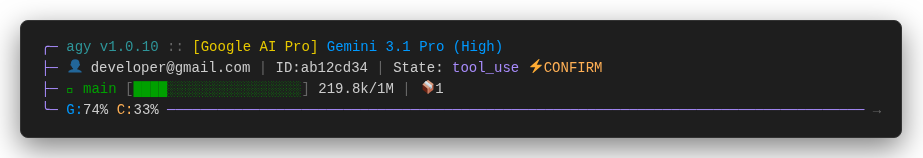
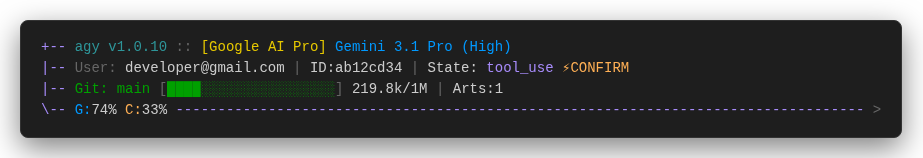
wip: ascii dashboard theme, preview-all script, regenerated screenshots

diff --git a/themes/dashboard.js b/themes/dashboard.js
@@ -20,7 +20,7 @@ export default {
       const version = payload?.version || "1.0.0";
       const artifacts = payload?.artifact_count || 0;
       const confirm = payload?.tool_confirmation_pending ? utils.colors.orange(' ⚡CONFIRM ') : '';
-      const sandbox = payload?.sandbox?.enabled ? '🔒' : '';
+      const sandbox = payload?.sandbox?.enabled ? ' (SECURE)' : '';
       
       const barLen = 20;
       const filled = Math.round(pct * barLen);
@@ -32,14 +32,14 @@ export default {
       else if (pct >= 0.7) coloredBar = utils.colors.orange(bar);
       else if (pct >= 0.5) coloredBar = utils.colors.yellow(bar);
 
-      const headerL = `${utils.colors.purple('╭─')} ${utils.colors.cyan(product + ' v' + version)} ${utils.colors.dim('::')} ${utils.colors.yellow('[' + tier + ']')} ${utils.colors.blue(model)}`;
+      const headerL = `${utils.colors.purple('+--')} ${utils.colors.cyan(product + ' v' + version)} ${utils.colors.dim('::')} ${utils.colors.yellow('[' + tier + ']')} ${utils.colors.blue(model)}`;
       
-      const identity = `${utils.colors.dim('👤')} ${email} ${utils.colors.dim('|')} ID:${sessionId} ${utils.colors.dim('|')} State: ${utils.colors.purple(state)}`;
-      const l2 = `${utils.colors.purple('├─')} ${identity}${confirm}${sandbox}`;
+      const identity = `${utils.colors.dim('User:')} ${email} ${utils.colors.dim('|')} ID:${sessionId} ${utils.colors.dim('|')} State: ${utils.colors.purple(state)}`;
+      const l2 = `${utils.colors.purple('|--')} ${identity}${confirm}${sandbox}`;
       
-      const gitInfo = branch ? ` ${utils.colors.green(' ' + branch)} ` : ' ';
+      const gitInfo = branch ? ` ${utils.colors.green('Git: ' + branch)} ` : ' ';
       const usageText = `${utils.formatNumber ? utils.formatNumber(used) : used}/${utils.formatNumber ? utils.formatNumber(total) : total}`;
-      const l3 = `${utils.colors.purple('├─')}${gitInfo}${utils.colors.dim('[')}${coloredBar}${utils.colors.dim(']')} ${usageText} ${utils.colors.dim('|')} 📦${artifacts}`;
+      const l3 = `${utils.colors.purple('|--')}${gitInfo}${utils.colors.dim('[')}${coloredBar}${utils.colors.dim(']')} ${usageText} ${utils.colors.dim('|')} Arts:${artifacts}`;
       
       let quotas = '';
       if (payload?.quota) {
@@ -49,19 +49,13 @@ export default {
          if (qa) quotas += `${utils.colors.orange('C:')}${Math.round(qa.remaining_fraction*100)}% `;
       }
       
-      const footerL = `${utils.colors.purple('╰─')} ${quotas}`;
-      const footerR = utils.colors.dim('→');
+      const footerL = `${utils.colors.purple('\\--')} ${quotas}`;
+      const footerR = utils.colors.dim('>');
       
-      // Calculate true visual width accounting for emojis
-      // 👤 and 📦 usually take 2 columns.
-      let emojiOffset = 0;
-      if (footerL.includes('👤')) emojiOffset += 1;
-      if (footerL.includes('📦')) emojiOffset += 1;
-      
-      const leftLen = strip(footerL).length - emojiOffset;
+      const leftLen = strip(footerL).length;
       const rightLen = strip(footerR).length;
       const space = Math.max(1, width - leftLen - rightLen - 1);
-      const filler = utils.colors.purple('─'.repeat(space));
+      const filler = utils.colors.purple('-'.repeat(space));
       
       const footer = `${footerL}${filler} ${footerR}`;
 

diff --git a/scripts/preview-all.js b/scripts/preview-all.js
@@ -1,0 +1,45 @@
+import fs from 'node:fs';
+import path from 'node:path';
+import url from 'node:url';
+import { renderStatusLine } from '../src/core/renderer.js';
+
+const __dirname = url.fileURLToPath(new URL('.', import.meta.url));
+const themesDir = path.join(__dirname, '..', 'themes');
+
+const mockPayload = {
+  version: "1.0.0",
+  model: { display_name: "gemini-1.5-pro" },
+  git: { branch: "main" },
+  context_window: { total_input_tokens: 4500, total_output_tokens: 1500, context_window_size: 200000 },
+  quota: {
+    'gemini-5h': { remaining_fraction: 0.8 },
+    'anthropic-5h': { remaining_fraction: 0.5 }
+  },
+  email: "developer@antigravity.io",
+  session_id: "s123abc",
+  agent_state: "idle",
+  plan_tier: "pro",
+  product: "agy",
+  artifact_count: 3,
+  sandbox: { enabled: true },
+  terminal_width: 80
+};
+
+async function previewAll() {
+  console.log('\n--- AGY-STATUSLINE THEME PREVIEWS ---\n');
+  const files = fs.readdirSync(themesDir).filter(f => f.endsWith('.js'));
+  
+  for (const file of files) {
+    const themeName = file.replace('.js', '');
+    const module = await import(url.pathToFileURL(path.join(themesDir, file)).href);
+    const config = module.default;
+    
+    console.log(`\x1b[1mTheme: ${themeName}\x1b[0m`);
+    console.log('\x1b[2m----------------------------------------\x1b[0m');
+    const output = await renderStatusLine(mockPayload, config);
+    console.log(output);
+    console.log('\n');
+  }
+}
+
+previewAll().catch(console.error);
